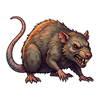
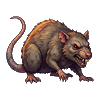
feat(fe): muted bronze palette to match the painted art; sprites without the sticker outline
- base tokens: antique bronze primary, ember secondary, near-black warm stone surfaces,
  parchment text; danger/warning/info desaturated to sit with the art
- lobby: title in parchment gold, primary button as a bronze slab with an ember hover,
  secondary buttons as dark stone with a bronze edge; "No hero" label on the first tile
- tools/art: strip_outline() removes the white sticker border (near-white pixels connected to
  the transparent edge) in post-processing; new `reprocess` command re-runs the post step from
  out/raw without API calls; prompts no longer ask for a white outline (style_version 2)
- all 15 base sprites reprocessed from their raw files (no regeneration)

diff --git a/fe/src/views/HomeView.vue b/fe/src/views/HomeView.vue
@@ -184,7 +184,7 @@ const buildVersion = ref(import.meta.env.VITE_BUILD_VERSION || 'dev');
 
 // Hero cards: skills from the Karak rulebook; name and portrait/emoji from the active theme
 const HERO_SKILLS = [
-  { key: null, testid: 'hero-none', skills: [] },
+  { key: null, testid: 'hero-none', shortName: 'No hero', skills: [] },
   { key: 'warrior', testid: 'hero-warrior', skills: [
     { name: 'Double Attack', text: 'reroll the dice once per fight, the second roll stands' },
     { name: 'Reincarnation', text: 'losing the last HP teleports him to a healing fountain with full HP' }
@@ -1127,7 +1127,7 @@ const createNewGame = async () => {
 }
 
 .title {
-  color: #b8950d;
+  color: var(--text-accent);
   margin-bottom: 10px;
   font-size: 48px;
   text-shadow: 2px 2px 4px #000;
@@ -1311,10 +1311,10 @@ const createNewGame = async () => {
 }
 
 .hero-tile.selected {
-  border-color: #b8950d;
-  color: #f3e6b4;
-  background: linear-gradient(180deg, rgba(184, 149, 13, 0.18) 0%, rgba(0, 0, 0, 0.45) 100%);
-  box-shadow: 0 0 0 1px rgba(184, 149, 13, 0.6), 0 6px 18px rgba(184, 149, 13, 0.18);
+  border-color: var(--color-primary-hover);
+  color: var(--text-primary);
+  background: linear-gradient(180deg, rgba(var(--accent-rgb), 0.16) 0%, rgba(0, 0, 0, 0.45) 100%);
+  box-shadow: 0 0 0 1px rgba(var(--accent-rgb), 0.7), 0 6px 18px rgba(var(--accent-rgb), 0.16);
 }
 
 .hero-tile-figure {
@@ -1335,7 +1335,7 @@ const createNewGame = async () => {
 }
 
 .hero-tile.selected .hero-tile-image {
-  filter: drop-shadow(0 0 6px rgba(184, 149, 13, 0.55));
+  filter: drop-shadow(0 0 6px rgba(var(--accent-light-rgb), 0.45));
 }
 
 .hero-tile-emoji {
@@ -1362,9 +1362,9 @@ const createNewGame = async () => {
   padding: 14px 16px;
   min-height: 150px;
   border-radius: 8px;
-  border: 1px solid rgba(184, 149, 13, 0.35);
+  border: 1px solid rgba(var(--accent-rgb), 0.35);
   background:
-    radial-gradient(ellipse at 18% 60%, rgba(224, 122, 42, 0.18) 0%, transparent 55%),
+    radial-gradient(ellipse at 18% 60%, rgba(207, 113, 40, 0.14) 0%, transparent 55%),
     linear-gradient(135deg, var(--bg-secondary) 0%, var(--bg-primary) 100%);
   box-shadow: inset 0 1px 0 rgba(255, 255, 255, 0.04), 0 4px 16px rgba(0, 0, 0, 0.5);
   text-align: left;
@@ -1409,7 +1409,7 @@ const createNewGame = async () => {
   font-size: 22px;
   font-weight: 700;
   letter-spacing: 0.02em;
-  color: #e3c35a;
+  color: var(--text-accent);
   text-shadow: 0 1px 2px #000;
 }
 
@@ -1438,7 +1438,7 @@ const createNewGame = async () => {
 
 .hero-skill-name::before {
   content: '\25C6\00A0';
-  color: #b8950d;
+  color: var(--color-secondary-hover);
   font-size: 9px;
   vertical-align: 2px;
 }
@@ -1495,8 +1495,10 @@ const createNewGame = async () => {
 }
 
 .primary-button {
-  background: linear-gradient(135deg, var(--color-primary) 0%, var(--color-primary-hover) 100%);
-  color: #1a1206;
+  background: var(--gradient-primary);
+  color: var(--text-primary);
+  border: 1px solid rgba(var(--accent-light-rgb), 0.35);
+  text-shadow: 0 1px 2px rgba(0, 0, 0, 0.6);
   border: none;
   padding: 15px 30px;
   border-radius: 5px;
@@ -1508,7 +1510,8 @@ const createNewGame = async () => {
 }
 
 .primary-button:hover:not(:disabled) {
-  background: linear-gradient(135deg, var(--color-primary-hover) 0%, var(--color-secondary) 100%);
+  background: var(--gradient-secondary);
+  border-color: rgba(var(--accent-light-rgb), 0.6);
   transform: translateY(-1px);
   box-shadow: 0 4px 12px rgba(0,0,0,0.6);
 }
@@ -1520,23 +1523,24 @@ const createNewGame = async () => {
 }
 
 .secondary-button {
-  background: linear-gradient(135deg, #4d3d00 0%, #3d2f00 100%);
-  color: #998833;
-  border: none;
+  background: linear-gradient(180deg, var(--bg-tertiary) 0%, var(--bg-secondary) 100%);
+  color: var(--text-accent);
+  border: 1px solid rgba(var(--accent-rgb), 0.45);
   padding: 15px 30px;
   border-radius: 5px;
   cursor: pointer;
   font-size: 18px;
   font-weight: 400;
   transition: all 0.2s;
-  margin-top: 10px;
-  box-shadow: 0 2px 8px rgba(0,0,0,0.5);
+  box-shadow: 0 2px 8px rgba(0, 0, 0, 0.5);
+  text-shadow: 0 1px 2px rgba(0, 0, 0, 0.6);
 }
 
-.secondary-button:hover {
-  background: linear-gradient(135deg, #5d4a00 0%, #4d3a00 100%);
+.secondary-button:hover:not(:disabled) {
+  border-color: rgba(var(--accent-light-rgb), 0.7);
+  color: var(--text-primary);
   transform: translateY(-1px);
-  box-shadow: 0 4px 12px rgba(0,0,0,0.6);
+  box-shadow: 0 4px 12px rgba(0, 0, 0, 0.6);
 }
 
 .error-message {

diff --git a/fe/src/styles/design-tokens.css b/fe/src/styles/design-tokens.css
@@ -1,30 +1,31 @@
 /* Design Tokens - CSS Custom Properties */
 :root {
   /* Colors */
-  /* Dungeon palette: aged gold accent, ember secondary, warm dark stone backgrounds */
-  --color-primary: #c9a227;
-  --color-primary-hover: #e3c35a;
-  --color-secondary: #e07a2a;
-  --color-secondary-hover: #f09a4a;
-  --color-danger: #ff6b6b;
-  --color-warning: #ffb700;
-  --color-warning-hover: #ffc800;
-  --color-info: #5b8fc9;
-  --color-info-hover: #7aa8dc;
+  /* Dungeon palette, tuned to the painted art: antique bronze accent, ember glow as the only
+     bright note, near-black warm stone surfaces, parchment text */
+  --color-primary: #8a6a2f;
+  --color-primary-hover: #a8853e;
+  --color-secondary: #b35a1c;
+  --color-secondary-hover: #cf7128;
+  --color-danger: #b8433a;
+  --color-warning: #c98f2a;
+  --color-warning-hover: #dba63f;
+  --color-info: #4f7a9c;
+  --color-info-hover: #6a94b5;
   
   /* Background Colors */
-  --bg-primary: #1b1816;
-  --bg-secondary: #26211d;
-  --bg-tertiary: #332b26;
-  --bg-field: #110f0d;
-  --bg-modal: #1f1a17;
-  --bg-overlay: rgba(0, 0, 0, 0.7);
+  --bg-primary: #131110;
+  --bg-secondary: #1b1715;
+  --bg-tertiary: #262019;
+  --bg-field: #0b0a09;
+  --bg-modal: #171311;
+  --bg-overlay: rgba(0, 0, 0, 0.78);
   
   /* Text Colors */
-  --text-primary: #e0e0e0;
-  --text-secondary: #aaa;
-  --text-muted: #7f8c8d;
-  --text-accent: #e3c35a;
+  --text-primary: #e2d7c3;
+  --text-secondary: #a89a84;
+  --text-muted: #6e655a;
+  --text-accent: #d4b36a;
   
   /* Spacing */
   --spacing-xs: 4px;
@@ -45,17 +46,17 @@
   --shadow-sm: 0 2px 4px rgba(0, 0, 0, 0.2);
   --shadow-md: 0 4px 8px rgba(0, 0, 0, 0.3);
   --shadow-lg: 0 8px 16px rgba(0, 0, 0, 0.4);
-  --shadow-glow: 0 0 10px rgba(201, 162, 39, 0.7);
-  --shadow-glow-strong: 0 0 30px rgba(227, 195, 90, 0.7);
+  --shadow-glow: 0 0 10px rgba(207, 113, 40, 0.55);
+  --shadow-glow-strong: 0 0 30px rgba(207, 113, 40, 0.6);
 
   /* rgba() helpers for glows and tints: rgba(var(--accent-rgb), 0.3) — themes override them */
-  --accent-rgb: 201, 162, 39;
-  --accent-light-rgb: 227, 195, 90;
+  --accent-rgb: 168, 133, 62;
+  --accent-light-rgb: 212, 179, 106;
 
   /* Gradients — themes override them */
-  --gradient-primary: linear-gradient(135deg, var(--color-primary) 0%, var(--color-secondary) 100%);
-  --gradient-secondary: linear-gradient(135deg, var(--color-info) 0%, var(--color-primary) 100%);
-  --gradient-dark: linear-gradient(135deg, #1b1816 0%, #2a211c 100%);
+  --gradient-primary: linear-gradient(180deg, var(--color-primary-hover) 0%, var(--color-primary) 100%);
+  --gradient-secondary: linear-gradient(180deg, var(--color-secondary-hover) 0%, var(--color-secondary) 100%);
+  --gradient-dark: linear-gradient(135deg, #131110 0%, #1f1915 100%);
   
   /* Transitions */
   --transition-fast: 0.2s ease;

diff --git a/tools/art/postprocess.py b/tools/art/postprocess.py
@@ -67,6 +67,44 @@ def remove_chroma_key(img: Image.Image) -> Image.Image:
     return out
 
 
+# sticker outline: near-white pixels touching the transparent edge (R,G,B high, almost no saturation)
+OUTLINE_MIN = 215
+OUTLINE_MAX_SPREAD = 22
+
+
+def strip_outline(img: Image.Image) -> tuple[Image.Image, float]:
+    """Remove the white sticker outline: near-white pixels connected to the transparent edge.
+
+    Flood-fills inward from every transparent pixel through near-white pixels only, so interior
+    whites (bone, highlights) survive unless they touch the silhouette through pure white.
+    """
+    data = np.array(img.convert("RGBA"), dtype=np.uint8)
+    rgb = data[..., :3].astype(np.int16)
+    alpha = data[..., 3]
+    near_white = (rgb.min(axis=-1) >= OUTLINE_MIN) & ((rgb.max(axis=-1) - rgb.min(axis=-1)) <= OUTLINE_MAX_SPREAD) & (alpha > 0)
+    transparent = alpha == 0
+    # iterative 4-neighbour dilation of the transparent region, constrained to near-white pixels
+    front = transparent.copy()
+    removed = np.zeros_like(transparent)
+    for _ in range(64):
+        grown = front.copy()
+        grown[1:, :] |= front[:-1, :]
+        grown[:-1, :] |= front[1:, :]
+        grown[:, 1:] |= front[:, :-1]
+        grown[:, :-1] |= front[:, 1:]
+        new = grown & near_white & ~removed & ~transparent
+        if not new.any():
+            break
+        removed |= new
+        front = transparent | removed
+    opaque_before = int((alpha > 0).sum())
+    alpha[removed] = 0
+    data[..., 3] = alpha
+    pct = float(removed.sum()) / max(opaque_before, 1) * 100
+    LOG.debug("outline: removed %.1f%% of opaque pixels", pct)
+    return Image.fromarray(data, mode="RGBA"), pct
+
+
 def green_residue_pct(img: Image.Image) -> float:
     """Share of opaque pixels that are still green-dominant (fringe left after keying)."""
     data = np.asarray(img.convert("RGBA"), dtype=np.int16)
@@ -113,9 +151,11 @@ def trim_and_fit(img: Image.Image, width: int, height: int, padding: float = 0.0
 def process_sprite(raw: bytes, width: int, height: int) -> tuple[Image.Image, dict]:
     img = load(raw)
     keyed = remove_chroma_key(img)
+    keyed, outline_pct = strip_outline(keyed)
     fitted, info = trim_and_fit(keyed, width, height)
     residue = green_residue_pct(fitted)
     info["green_residue_pct"] = round(residue, 2)
+    info["outline_removed_pct"] = round(outline_pct, 2)
     if residue > 0.5:
         LOG.warning("green residue %.2f%% of opaque pixels — consider regenerating", residue)
     corners = [fitted.getpixel((0, 0))[3], fitted.getpixel((width - 1, height - 1))[3]]

diff --git a/tools/art/pipeline.py b/tools/art/pipeline.py
@@ -116,3 +116,31 @@ def run(style: Style, assets: list[Asset], client: ImageClient | None, only: set
         _save_log(log)
         generated += 1
     return generated
+
+
+def reprocess(style: Style, assets: list[Asset], only: set[str] | None) -> int:
+    """Re-run the post-processing from out/raw without calling the API (after tuning postprocess.py)."""
+    log = _load_log()
+    done = 0
+    for asset in assets:
+        if only is not None and asset.id not in only:
+            continue
+        entry = log["assets"].get(asset.id)
+        raw_path = RAW_DIR / Path(entry["raw"]).name if entry else None
+        if raw_path is None or not raw_path.exists():
+            LOG.warning("reprocess %s: no raw file in %s, skipped", asset.id, rel(RAW_DIR))
+            continue
+        settings = style.kinds[asset.kind]
+        raw = raw_path.read_bytes()
+        if asset.kind == "background":
+            image, post = postprocess.process_background(raw, settings.width, settings.height)
+            postprocess.save_background(image, asset.out, settings.quality or 85)
+        else:
+            image, post = postprocess.process_sprite(raw, settings.width, settings.height)
+            postprocess.save_sprite(image, asset.out)
+        entry["post"] = post
+        entry["reprocessed_at"] = datetime.now(timezone.utc).isoformat(timespec="seconds")
+        LOG.info("reprocess %s → %s %s", asset.id, rel(asset.out), post)
+        done += 1
+    _save_log(log)
+    return done

diff --git a/tools/art/__main__.py b/tools/art/__main__.py
@@ -66,6 +66,15 @@ def cmd_generate(args) -> int:
     return 0
 
 
+def cmd_reprocess(args) -> int:
+    style = load_style()
+    assets = load_assets()
+    only = set(args.only.split(",")) if args.only else None
+    n = pipeline.reprocess(style, assets, only)
+    LOG.info("reprocess: %d asset(s)", n)
+    return 0
+
+
 def main(argv: list[str] | None = None) -> int:
     parser = argparse.ArgumentParser(prog="tools.art", description="Generate base-theme art with Gemini.")
     parser.add_argument("--verbose", "-v", action="store_true", help="DEBUG logging (prompts, references)")
@@ -78,6 +87,9 @@ def main(argv: list[str] | None = None) -> int:
     gen.add_argument("--force", action="store_true", help="regenerate even if the output exists")
     gen.add_argument("--dry-run", action="store_true", help="build prompts and references, no API calls")
     gen.set_defaults(func=cmd_generate)
+    rep = sub.add_parser("reprocess", help="re-run the post-processing from out/raw, no API calls")
+    rep.add_argument("--only", help="comma-separated asset ids")
+    rep.set_defaults(func=cmd_reprocess)
     args = parser.parse_args(argv)
     setup_logging(args.verbose)
     LOG.debug("raw dir %s", rel(RAW_DIR))
